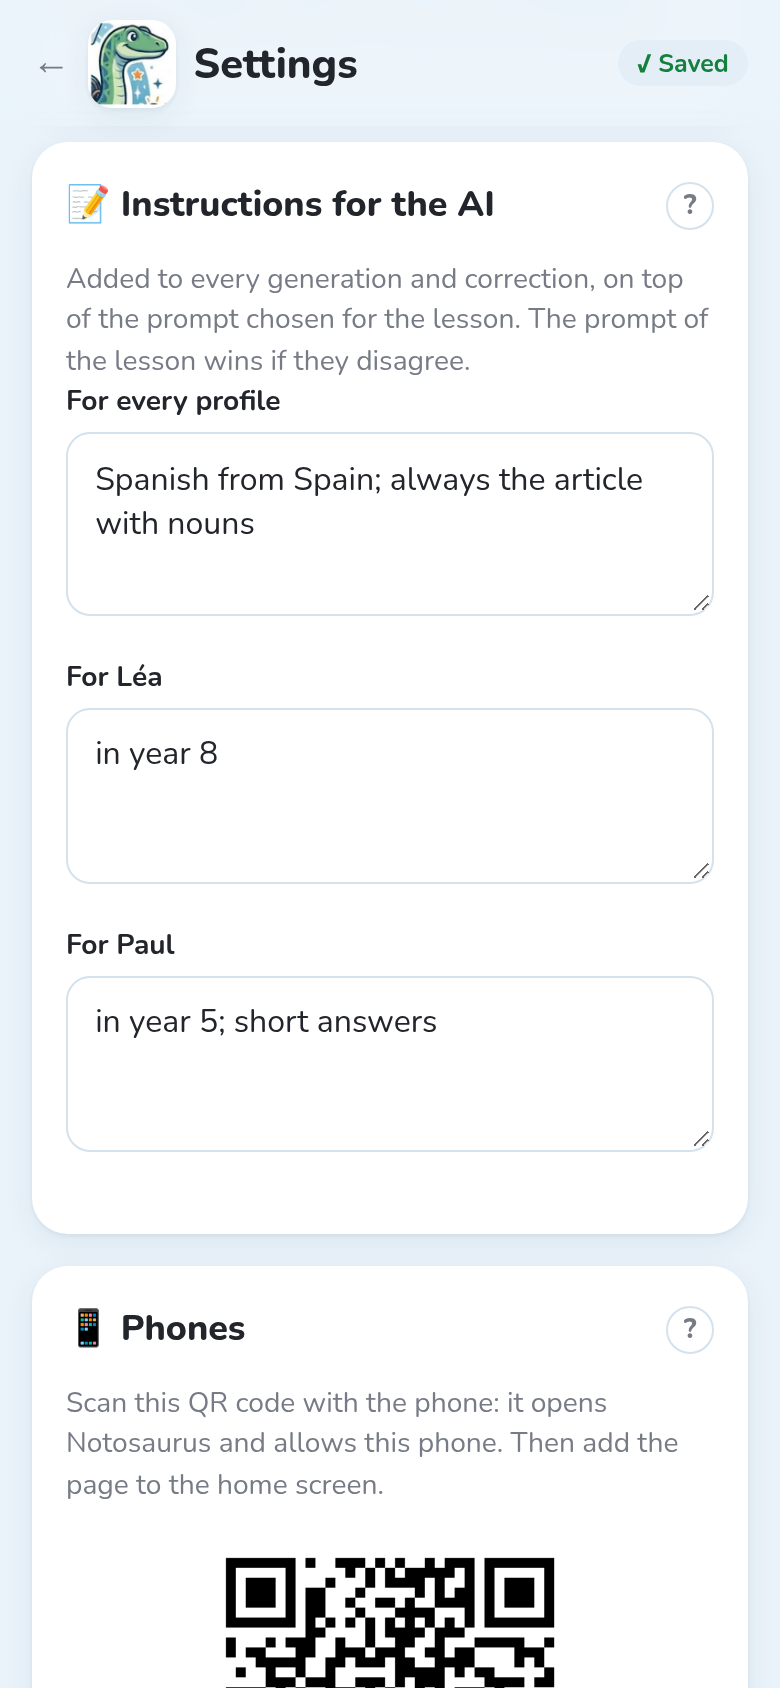
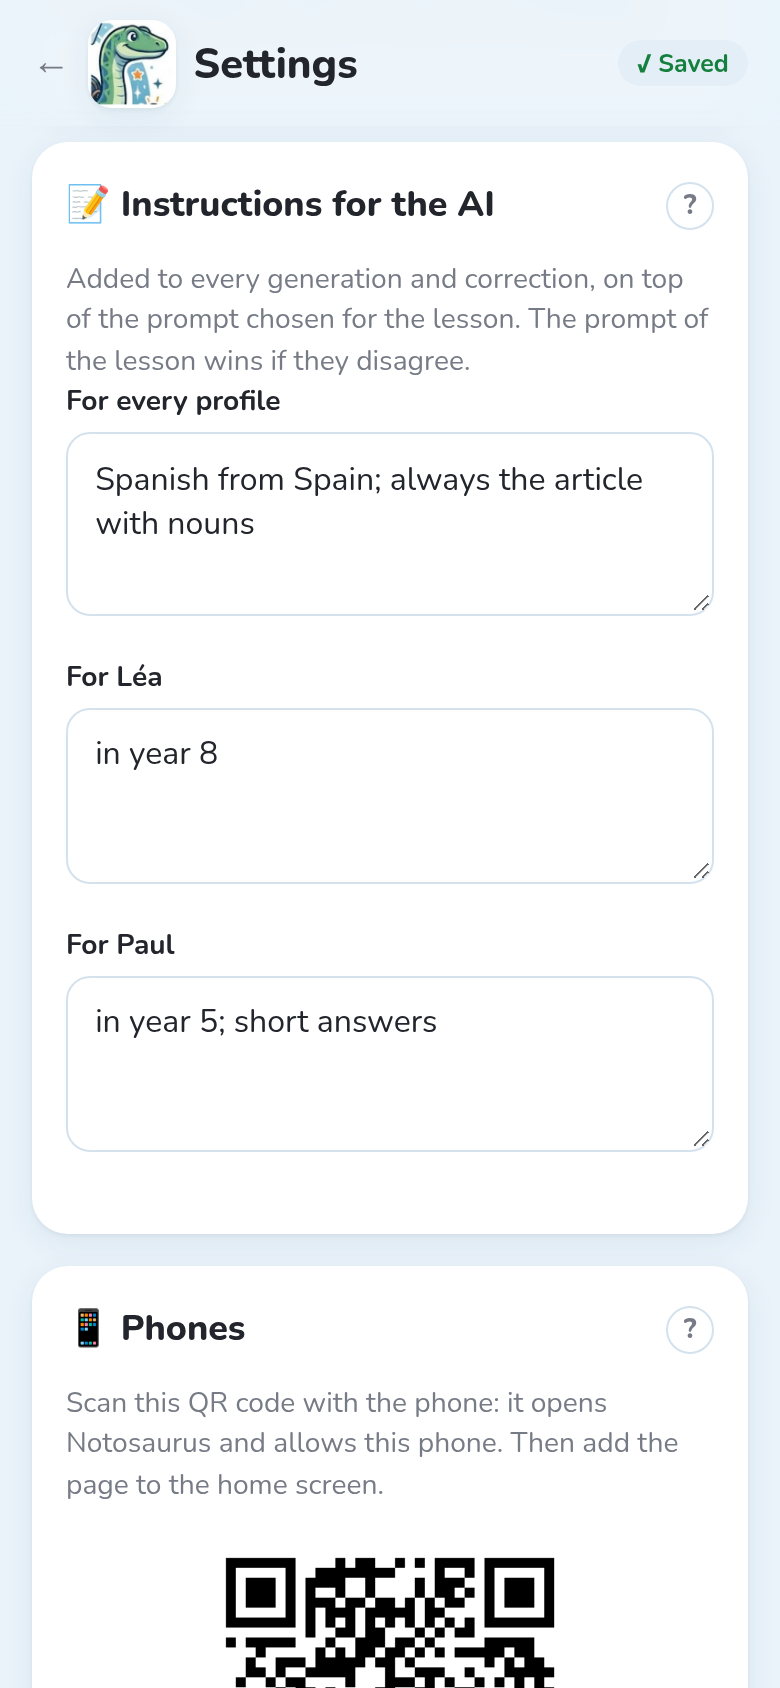
Documentation: PDFs (#82)
PDFs (#74, #76) were only explained in passing on the photos page. Now:

- **Photos and PDFs** (the page was *Taking good photos*; same address,
`photos/`, so the app's "?" link still works): a **PDFs** section of its
own — what to add (worksheet, digital textbook, booklet), the exact text
of a digital PDF sent to the AI, the page picker past the 10 pages a
lesson holds, cost per page, password-protected PDFs — with a
**screenshot of the page picker**.
- **Home page**: the card becomes *From a photo or a PDF*.
- **Getting started**, step 4.1: “or add a PDF”.
- **FAQ**: *A PDF can't be added* (“Already 10 pages”,
password-protected, misread words in a scanned PDF).
- Links to the page use its new title. English and French.

**Screenshot**: `tools/docs_screenshots.py` makes a 12-page demo booklet
(`page.pdf()` in headless Chromium), adds it, ticks three pages and
shoots the picker (`pdf-pages.png`). No AI call. The other changed
screenshots only differ by the QR code.

The site builds.

🤖 Generated with [Claude Code](https://claude.com/claude-code)

Changed region(s): [[0.2769, 0.9242, 0.7077, 1.0]]

diff --git a/tools/docs_screenshots.py b/tools/docs_screenshots.py
@@ -92,6 +92,59 @@ CORRECTION_TYPED = {
     "en": "You forgot: el libro = the book",
     "fr": "Tu as oublié : el libro = le livre",
 }
+# A 12-page PDF for the screenshot of its page picker (more pages than a lesson holds)
+BOOKLET = {
+    "en": (
+        "Revision booklet",
+        [
+            "Spanish: at school",
+            "Spanish: the family",
+            "Spanish: colours",
+            "Verbs",
+            "The water cycle",
+            "Parts of a plant",
+            "The solar system",
+            "Fractions",
+            "Geometry: triangles",
+            "Geometry: the circle",
+            "History: the Romans",
+            "Geography: rivers",
+        ],
+    ),
+    "fr": (
+        "Cahier de révisions",
+        [
+            "Espagnol : l'école",
+            "Espagnol : la famille",
+            "Espagnol : les couleurs",
+            "Les verbes",
+            "Le cycle de l'eau",
+            "Les parties d'une plante",
+            "Le système solaire",
+            "Les fractions",
+            "Géométrie : les triangles",
+            "Géométrie : le cercle",
+            "Histoire : les Romains",
+            "Géographie : les fleuves",
+        ],
+    ),
+}
+
+
+def booklet_pdf(b, lang: str, path: Path) -> None:
+    title, topics = BOOKLET[lang]
+    pages = "".join(
+        f"<section><h1>{title}</h1><h2>{n}. {topic}</h2>" + "<p></p>" * 12 + "</section>"
+        for n, topic in enumerate(topics, start=1)
+    )
+    page = b.new_page()
+    page.set_content(
+        "<style>section { page-break-after: always; font-family: sans-serif; padding: 40px; }"
+        " h1 { color: #0e6377; } h2 { font-size: 40px; } p { border-bottom: 2px solid #a9c4e6; height: 40px; }"
+        f"</style>{pages}"
+    )
+    page.pdf(path=path, format="A4")
+    page.close()
 
 
 # --- A fake Anki: two profiles, every write accepted ---------------------------------
@@ -338,6 +391,15 @@ def shoot(lang: str) -> None:
         shot("prompt-editor")
         page.evaluate(f"{APP}.editor.open = false")
         page.evaluate(f"{APP}.clearPhotos()")
+
+        booklet = Path(tmp) / f"{BOOKLET[lang][0]}.pdf"
+        booklet_pdf(b, lang, booklet)
+        page.locator("input[type=file][accept*=pdf]").set_input_files(booklet)
+        wait_for(page, f"{APP}.pdf.open", timeout=60)  # pdf.js draws the pages
+        page.evaluate(f"{APP}.pdf.pages.forEach((p, i) => {{ p.chosen = [0, 1, 4].includes(i); }})")
+        time.sleep(1.5)
+        shot("pdf-pages")
+        page.evaluate(f"{APP}.donePdfPicker(false)")
 
         page.evaluate(f"{APP}.lessonsOpen = true")
         time.sleep(0.8)

diff --git a/docs/src/content/docs/fr/photos.md b/docs/src/content/docs/fr/photos.md
@@ -1,6 +1,6 @@
 ---
-title: Bien prendre la photo
-description: "Comment photographier une leçon pour que l'IA la lise bien, avec plusieurs pages, et ce que Notosaurus fait des photos."
+title: "Photos et PDF"
+description: "Comment photographier une leçon pour que l'IA la lise bien, plusieurs pages, les PDF, et ce que Notosaurus en fait."
 ---
 
 L'IA lit ce qu'elle voit : une photo nette donne de meilleures cartes, et moins de
@@ -27,14 +27,6 @@ Gemini est un bon choix, moins cher.
 Une leçon peut avoir **jusqu'à 10 pages**. Après la première photo, **Page suivante** en
 ajoute une autre ; **Galerie** choisit des photos déjà prises (JPEG, PNG, WebP ou GIF).
 
-**📄 PDF** ajoute les pages d'un PDF, par exemple une fiche envoyée par l'enseignant : chaque
-page devient une photo. S'il y a plus de pages que la leçon n'a de place, Notosaurus les
-affiche toutes et tu choisis lesquelles ajouter. Chaque page envoyée coûte comme une photo. Un
-PDF protégé par un mot de passe doit d'abord être enregistré sans son mot de passe.
-
-Un PDF fait sur ordinateur (pas un scan) contient aussi son texte exact : Notosaurus l'envoie à
-l'IA avec la page, et aucun mot, accent, date ni nombre n'est mal lu.
-
 Sur chaque photo :
 
 - **↻** la tourne d'un quart de tour ;
@@ -46,6 +38,21 @@ Sur chaque photo :
 
 Pas besoin de redresser toi-même une photo prise de travers : Notosaurus trouve le sens de
 chaque page en la lisant, et l'enregistre à l'endroit.
+
+## Les PDF
+
+**📄 PDF**, à côté de l'appareil photo et de la galerie, ajoute les pages d'un PDF : une fiche
+envoyée par l'enseignant, une page de manuel numérique, un livret… Chaque page devient une photo
+de la leçon : tout marche comme avec des photos, schémas, corrections et tous les services d'IA.
+
+- **Un PDF fait sur ordinateur** (pas un scan) contient aussi son texte exact : Notosaurus
+  l'envoie à l'IA avec sa page, et aucun mot, accent, date ni nombre n'est mal lu.
+- **Plus de pages que la leçon n'a de place** (10 pages en tout) : Notosaurus les affiche toutes,
+  et tu touches celles à ajouter.
+- **Chaque page envoyée coûte comme une photo** : choisis seulement les pages de la leçon.
+- **Un PDF protégé par un mot de passe** doit d'abord être enregistré sans son mot de passe.
+
+![Choisir les pages d'un PDF](../../../assets/screenshots/fr/pdf-pages.png)
 
 ## Que deviennent les photos ?
 

diff --git a/docs/src/content/docs/photos.md b/docs/src/content/docs/photos.md
@@ -1,6 +1,6 @@
 ---
-title: Taking good photos
-description: "How to photograph a lesson so that the AI reads it well, with several pages, and what Notosaurus does with the photos."
+title: "Photos and PDFs"
+description: "How to photograph a lesson so that the AI reads it well, several pages, PDFs, and what Notosaurus does with them."
 ---
 
 The AI reads what it sees: a clear photo gives better cards, and fewer corrections.
@@ -24,14 +24,6 @@ good and cheaper choice.
 A lesson can have **up to 10 pages**. After the first photo, **Next page** adds another one;
 **Gallery** picks photos already taken (JPEG, PNG, WebP or GIF).
 
-**📄 PDF** adds the pages of a PDF, for instance a worksheet sent by the teacher: each page
-becomes a photo. With more pages than the lesson has room for, Notosaurus shows them all and
-you choose which ones to add. Each page sent costs like a photo. A password-protected PDF must
-first be saved without its password.
-
-A PDF made on a computer (not a scan) also holds its exact text: Notosaurus sends it to the AI
-with the page, so no word, accent, date or number is misread.
-
 On each photo:
 
 - **↻** turns it a quarter turn;
@@ -42,6 +34,21 @@ On each photo:
 
 You don't need to turn sideways photos yourself: Notosaurus finds how each page is turned
 when it reads it, and saves it upright.
+
+## PDFs
+
+**📄 PDF**, next to the camera and the gallery, adds the pages of a PDF: a worksheet sent by the
+teacher, a page of a digital textbook, a booklet… Each page becomes a photo of the lesson, so
+everything works as with photos: diagrams, corrections, every AI service.
+
+- **A PDF made on a computer** (not a scan) also holds its exact text: Notosaurus sends it to the
+  AI with its page, so no word, accent, date or number is misread.
+- **More pages than the lesson has room for** (10 pages in all): Notosaurus shows them all, and
+  you tap the ones to add.
+- **Each page sent costs like a photo**: choose only the pages of the lesson.
+- **A password-protected PDF** must first be saved without its password.
+
+![Choosing the pages of a PDF](../../assets/screenshots/en/pdf-pages.png)
 
 ## What happens to the photos
 

diff --git a/CHANGELOG.md b/CHANGELOG.md
@@ -9,6 +9,7 @@ Each pull request adds a line under **Unreleased**. See [Releasing](CONTRIBUTING
 
 ### Added
 
+- Documentation: PDFs get their own section (with a screenshot of the page picker, from a 12-page demo booklet made by `tools/docs_screenshots.py`), the photos page becomes “Photos and PDFs”, the home page and *Getting started* mention them, and the FAQ explains the PDF messages.
 - A “?” at the end of some section titles (photos, instructions, review; in the settings: AI service, instructions, phones, sending to Anki) opens the matching page of the documentation, in the page's language. The documentation site has a picture for when its address is shared, and the AnkiWeb description of the add-on is kept in `docs/ankiweb.md`.
 - Documentation: “Troubleshooting and FAQ” (Notosaurus doesn't start, the phone can't connect, the AI fails, the cards don't reach Anki, uninstalling) and “Advanced installation” (standalone, Docker, environment variables), in English and French, in a new Help section.
 - Documentation: “AI services and costs” (which service, getting a key step by step for Gemini, Claude, OpenAI and OpenRouter, the model, local models, the cost of a lesson) and “Privacy and security” (what leaves the computer, where the data is, who can use Notosaurus, the Wi-Fi), in English and French, with two more screenshots per language (the API key and the model, the costs). The photos page explains the text of digital PDFs.

diff --git a/docs/src/content/docs/fr/faq.md b/docs/src/content/docs/fr/faq.md
@@ -52,8 +52,17 @@ réglages (et les clés d'API) ne sont accessibles que sur l'ordinateur lui-mêm
 | Le modèle « ne semble pas voir l'image » (Tester) | Le modèle ne lit pas les images : choisis un modèle « vision ». |
 
 **Les cartes sont fausses ou il en manque.** Vérifie la photo (voir
-[Bien prendre la photo](../photos/)), précise la consigne, ou fais-les corriger par l'IA. Claude
+[Photos et PDF](../photos/)), précise la consigne, ou fais-les corriger par l'IA. Claude
 lit le mieux l'écriture manuscrite.
+
+## Un PDF ne s'ajoute pas
+
+- **« Déjà 10 pages : retires-en avant d'ajouter un PDF. »** Une leçon tient en 10 pages : retire
+  les photos inutiles (**×**), ou fais deux leçons.
+- **« … est protégé par un mot de passe »** : ouvre le PDF, enregistre-le sans mot de passe (ou
+  imprime-le dans un nouveau PDF), puis ajoute-le à nouveau.
+- **Des mots mal lus dans un PDF** : un PDF scanné ne contient que des images, lues comme des
+  photos. Un PDF fait sur ordinateur donne à l'IA son texte exact.
 
 ## Les cartes n'arrivent pas dans Anki
 

diff --git a/docs/src/content/docs/faq.md b/docs/src/content/docs/faq.md
@@ -49,8 +49,17 @@ Notosaurus → Settings**.
 | “The model didn't return valid cards” | Try again; if it keeps happening, choose another model. |
 | The model “doesn't seem to see the image” (Test) | The model doesn't read images: choose a vision model. |
 
-**The cards are wrong or missing.** Check the photo (see [Taking good photos](../photos/)), be
+**The cards are wrong or missing.** Check the photo (see [Photos and PDFs](../photos/)), be
 more precise in the instructions, or correct them with the AI. Claude reads handwriting best.
+
+## A PDF can't be added
+
+- **“Already 10 pages: remove some before adding a PDF.”** A lesson holds 10 pages: remove photos
+  you don't need (**×**), or make two lessons.
+- **“… is password-protected”**: open the PDF, save it without its password (or print it to a new
+  PDF), then add it again.
+- **Words misread in a PDF**: a scanned PDF is only pictures, read like photos. A PDF made on a
+  computer gives the AI its exact text.
 
 ## The cards don't reach Anki
 

diff --git a/docs/src/content/docs/getting-started.md b/docs/src/content/docs/getting-started.md
@@ -51,8 +51,8 @@ Only devices that scanned this QR code can use Notosaurus. If a phone is lost or
 
 ## 4. Your first lesson
 
-1. Under **Lesson photos**, take a photo of the page (or several pages): see
-   [Taking good photos](../photos/).
+1. Under **Lesson photos**, take a photo of the page (or several pages), or add a PDF: see
+   [Photos and PDFs](../photos/).
 2. Under **Instructions**, pick what to make: vocabulary, questions, fill in the blanks, a
    diagram to complete… **Automatic** chooses from the lesson. See [Instructions](../instructions/).
 
